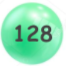
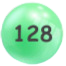
Pruebas cambio de imagen al valor

diff --git a/src/Interfaz/Tablero.java b/src/Interfaz/Tablero.java
@@ -20,7 +20,9 @@ import java.awt.Panel;
 public class Tablero extends JFrame {
 
 	private JPanel contentPane;
-
+	int y=272;
+	int x=48;
+	int v=2;
 	public static void main(String[] args) {
 		EventQueue.invokeLater(new Runnable() {
 			public void run() {
@@ -36,39 +38,54 @@ public class Tablero extends JFrame {
 
 	public Tablero() {
 		setDefaultCloseOperation(JFrame.EXIT_ON_CLOSE);
-		setBounds(100, 100, 668, 490);
 		contentPane = new JPanel();
-		contentPane.setBackground(Color.WHITE);
+		contentPane.setBackground(Color.RED);
 		contentPane.setBorder(new EmptyBorder(5, 5, 5, 5));
 		setContentPane(contentPane);
 		contentPane.setLayout(null);
-		setExtendedState(JFrame.MAXIMIZED_BOTH); 
+		setExtendedState(JFrame.MAXIMIZED_BOTH);
 		
 		
-		JButton btnNodo = new JButton("");
-		btnNodo.setBackground(Color.BLACK);
-		btnNodo.addMouseListener(new MouseAdapter() {
+		NodoGrafico prueba= new NodoGrafico(v);
+
+		prueba.labelNodo.setBounds(y,x,prueba.tamano,prueba.tamano);
+
+		contentPane.add(prueba.labelNodo);
+		
+		
+		JButton btnNewButton_1 = new JButton("Otro boton pues");
+		btnNewButton_1.addMouseListener(new MouseAdapter() {
 			@Override
-			public void mouseClicked(MouseEvent arg0) {
-				System.out.println("Hola");
+			public void mouseClicked(MouseEvent e) {
+				prueba.setValor(prueba.getValor()*2);
 			}
 		});
-		btnNodo.setBounds(134, 74, 70, 66);
-		btnNodo.setBorderPainted(false);
-		btnNodo.setBorder(null);
-
-
-		contentPane.add(btnNodo);
 		
-		JLabel labelNodo = new JLabel("");
-		labelNodo.addMouseListener(new MouseAdapter() {
+		JButton btnNewButton = new JButton("Un boton");
+		btnNewButton.addMouseListener(new MouseAdapter() {
 			@Override
 			public void mouseClicked(MouseEvent arg0) {
-				System.out.println("AAAAAAAAAAA");
+				
+				y=y+10;
+				x=x+10;
+				prueba.labelNodo.setBounds(y,x,prueba.tamano,prueba.tamano);
+
 			}
 		});
-		labelNodo.setIcon(new ImageIcon(Tablero.class.getResource("/Imagenes/esfera2.png")));
-		labelNodo.setBounds(272, 48, 70, 66);
-		contentPane.add(labelNodo);
+		
+		btnNewButton.setBounds(32, 79, 164, 96);
+		contentPane.add(btnNewButton);
+		btnNewButton_1.setBounds(29, 299, 203, 96);
+		contentPane.add(btnNewButton_1);
+		
+
+		JLabel lblNewLabel = new JLabel("");
+		lblNewLabel.setLocation(-29, -13);
+		lblNewLabel.setSize(6667, 5000);
+		lblNewLabel.setIcon(new ImageIcon(Tablero.class.getResource("/Imagenes/fondo2.jpg")));
+		
+		
+
+		contentPane.add(lblNewLabel);
 	}
 }

diff --git a/src/Interfaz/NodoGrafico.java b/src/Interfaz/NodoGrafico.java
@@ -4,14 +4,15 @@ import javax.swing.JLabel;
 import tree.Nodo;
 
 public class NodoGrafico {
-	Nodo nodo;
-	int posx;
-	int posy;
+	private Nodo nodo;
+	private int valor=2;
+	private int posx;
+	private int posy;
+	public int tamano=66;
+	
 	JLabel labelNodo;
 
-	public NodoGrafico(Nodo nodo) {
-		
-		int valor= nodo.getValor();
+	public NodoGrafico(int valor) {
 		labelNodo = new JLabel("");
 		String direccion= asignarImagen(valor);
 		labelNodo.setIcon(new ImageIcon(Tablero.class.getResource(direccion)));
@@ -23,6 +24,17 @@ public class NodoGrafico {
 		return "/Imagenes/esfera"+aux+".png";
 	}
 	
+	public int getValor() {
+		return valor;
+	}
+
+
+	public void setValor(int valor) {
+		this.valor = valor;
+		labelNodo.setIcon(new ImageIcon(Tablero.class.getResource(asignarImagen(valor))));
+	}
+
+
 	public Nodo getNodo() {
 		return nodo;
 	}

diff --git a/src/tree/ArbolB.java b/src/tree/ArbolB.java
@@ -1,5 +1,36 @@
 package tree;
 
 public class ArbolB {
-
+	// raiz del arbol o primer nodo
+    private Nodo raiz; 
+    private int tamano=1;
+  
+    // Constructores 
+    ArbolB(int valor){ 
+        raiz = new Nodo(valor);
+        } 
+  
+    ArbolB(){ 
+        raiz = new Nodo();
+        } 
+    
+    public boolean esVacio(){
+    	return (raiz==null); //true es vacio 
+    }
+    public void insertarNodo(Nodo insertar,Nodo aux){
+    		
+    	if (aux.getIzquierda()==null)
+    		aux.setIzquierda(insertar);
+    	else
+    	{
+    		if (aux.getDerecha()==null)
+    			aux.setDerecha(insertar);
+    		else
+    		{
+    			aux=aux.getIzquierda();
+    			insertarNodo(insertar,aux);
+    		}
+    	}
+    			
+    }
 }

diff --git a/src/tree/ArbolBinario.java b/src/tree/ArbolBinario.java
@@ -1,4 +1,4 @@
-package arbolbin;
+/*package tree;
 
 public class ArbolBinario {
 
@@ -38,7 +38,7 @@ public class ArbolBinario {
     }
     
     //buscar elemento
-    
+   /* 
     private boolean contieneNodo(Nodo actual, int valor){
     	if (actual==null){
     		return false;
@@ -59,7 +59,6 @@ public class ArbolBinario {
     	return raiz.hijoIzq==null
     			? raiz.x :valorMenor(raiz.hijoIzq);
     }
-    
     private Nodo eliminarNodo (Nodo actual, int valor){
     	
     	if (actual==null)//vacio
@@ -98,3 +97,4 @@ public class ArbolBinario {
     	raiz=eliminarNodo(raiz,valor);
     }
    }
+*/

diff --git a/src/tree/Nodo.java b/src/tree/Nodo.java
@@ -5,10 +5,13 @@ public class Nodo {
 	private Nodo derecha;
 	private Nodo izquierda;
 	
+	public Nodo (){
+		derecha=izquierda=null;
+	}
 	public Nodo (int valor){
 		this.valor=valor;
 		derecha=izquierda=null;
-	
+		
 	}
 	
 	public int getValor() {
